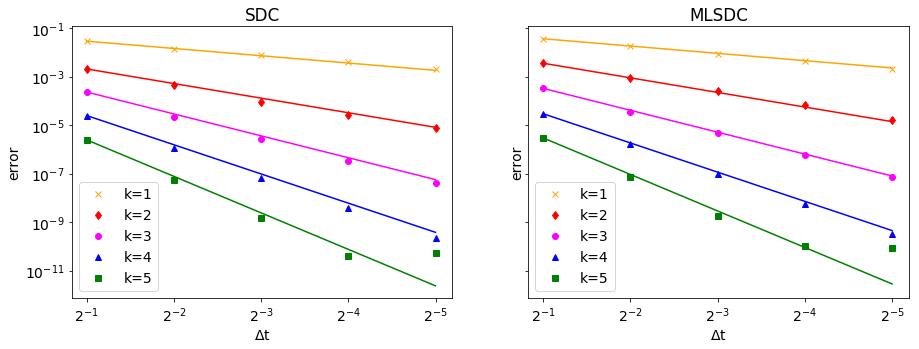
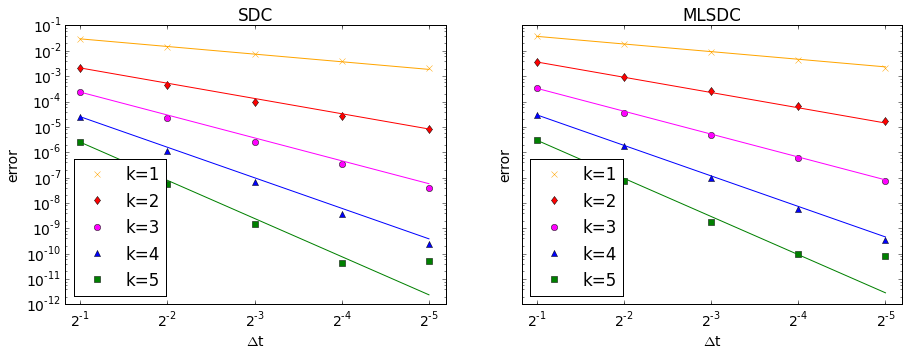
added flag to save error at uend

diff --git a/pySDC/projects/mlsdc_convergence/solve_heat1d.py b/pySDC/projects/mlsdc_convergence/solve_heat1d.py
@@ -11,7 +11,7 @@ from math import log
 import numpy as np
 from plot_errors import plot_errors
 
-def solve_heat1d(m, n, iorder, nu, freq, random_init, niter_arr, nsteps_arr, fname_errors):
+def solve_heat1d(m, n, iorder, nu, freq, random_init, niter_arr, nsteps_arr, only_uend, fname_errors):
     """
     Run SDC and MLSDC for 1D heat equation with given parameters
     and compare errors for different numbers of iterations and time steps
@@ -82,6 +82,8 @@ def solve_heat1d(m, n, iorder, nu, freq, random_init, niter_arr, nsteps_arr, fna
     error_coll_mlsdc = {'type' : 'MLSDC', 'niter_arr' : niter_arr, 'nsteps_arr' : nsteps_arr}
     error_uend_mlsdc = {'type' : 'MLSDC', 'niter_arr' : niter_arr, 'nsteps_arr' : nsteps_arr}
     
+    u_coll = {}    
+    
     # vary number of iterations
     for niter in niter_arr:
         # set number of iterations
@@ -139,17 +141,18 @@ def solve_heat1d(m, n, iorder, nu, freq, random_init, niter_arr, nsteps_arr, fna
             print('MLSDC:\tu_ode:\terror: %8.6e\torder:%4.2f' % (err_ode_mlsdc, order_ode_mlsdc))
         
             # compute solution of the collocation problem
-            I_dtQxA = np.eye((m[0]+1)*n[0]) - L_sdc.dt*np.kron(L_sdc.sweep.coll.Qmat, P.A.toarray())
-            u0 = np.kron(np.ones(m[0]+1), uinit.values)
-            u_coll = np.linalg.solve(I_dtQxA, u0)
+            if not nsteps in u_coll:
+                I_dtQxA = np.eye((m[0]+1)*n[0]) - L_sdc.dt*np.kron(L_sdc.sweep.coll.Qmat, P.A.toarray())
+                u0 = np.kron(np.ones(m[0]+1), uinit.values)
+                u_coll[nsteps] = np.linalg.solve(I_dtQxA, u0)
             
             # compute, save and print collocation error and resulting order in dt
-            err_coll_sdc = np.linalg.norm(u_coll - u_num_sdc.flatten(), ord=np.inf)
+            err_coll_sdc = np.linalg.norm(u_coll[nsteps] - u_num_sdc.flatten(), ord=np.inf)
             error_coll_sdc[(niter, nsteps)] = err_coll_sdc
             order_coll_sdc = log(error_coll_sdc[(niter, nsteps_arr[i-1])]/err_coll_sdc)/log(nsteps/nsteps_arr[i-1]) if i > 0 else 0
             print('SDC:\tu_coll:\terror: %8.6e\torder:%4.2f' % (err_coll_sdc, order_coll_sdc))
             
-            err_coll_mlsdc = np.linalg.norm(u_coll - u_num_mlsdc.flatten(), ord=np.inf)
+            err_coll_mlsdc = np.linalg.norm(u_coll[nsteps] - u_num_mlsdc.flatten(), ord=np.inf)
             error_coll_mlsdc[(niter, nsteps)] = err_coll_mlsdc
             order_coll_mlsdc = log(error_coll_mlsdc[(niter, nsteps_arr[i-1])]/err_coll_mlsdc)/log(nsteps/nsteps_arr[i-1]) if i > 0 else 0
             print('MLSDC:\tu_coll:\terror: %8.6e\torder:%4.2f' % (err_coll_mlsdc, order_coll_mlsdc))
@@ -183,7 +186,10 @@ def solve_heat1d(m, n, iorder, nu, freq, random_init, niter_arr, nsteps_arr, fna
     
     # save results in pickle files (needed to plot results)
     fout = open(fname_errors, "wb")
-    pickle.dump([error_coll_sdc, error_coll_mlsdc], fout)
+    if only_uend:
+        pickle.dump([error_uend_sdc, error_uend_mlsdc], fout)
+    else:
+        pickle.dump([error_ode_sdc, error_ode_mlsdc], fout)
     fout.close()
     
     print("results saved in: {}".format(fname_errors))
@@ -196,17 +202,23 @@ if __name__ == "__main__":
     n = [255, 127]
     
     # set method params
-    m = [5, 5]
+    m = [7, 7]
     random_init = True
     iorder = 10
     # set number of iterations and time steps which shall be analysed
     niter_arr = range(1,6)
-    nsteps_arr = [2**i for i in range(14,18)]
+    nsteps_arr = [2**i for i in range(15,19)]
     
-    fname_errors = "data/errors_heat1d.pickle"
-    figname = "figures/errors_heat1d.png"
+    only_uend = False
     
-    solve_heat1d(m, n, iorder, nu, freq, random_init, niter_arr, nsteps_arr, fname_errors)
+    if only_uend:
+        fname_errors = "data/errors_heat1d_uend.pickle"
+        figname = "figures/errors_heat1d_uend.png"
+    else:
+        fname_errors = "data/errors_heat1d.pickle"
+        figname = "figures/errors_heat1d.png"
+    
+    solve_heat1d(m, n, iorder, nu, freq, random_init, niter_arr, nsteps_arr, only_uend, fname_errors)
     if random_init:
         plot_errors(fname_errors, figname, order_sdc=lambda n: n, order_mlsdc=lambda n: n)
     else:

diff --git a/pySDC/projects/mlsdc_convergence/solve_vanderpol.py b/pySDC/projects/mlsdc_convergence/solve_vanderpol.py
@@ -11,7 +11,7 @@ from math import log
 import numpy as np
 from plot_errors import plot_errors
 
-def solve_vanderpol(m, random_init, niter_arr, nsteps_arr, fname_errors):
+def solve_vanderpol(m, random_init, niter_arr, nsteps_arr, only_uend, fname_errors):
     """
     Run SDC and MLSDC for Van der Pol ODE with given parameters
     and compare errors for different numbers of iterations and time steps
@@ -159,7 +159,10 @@ def solve_vanderpol(m, random_init, niter_arr, nsteps_arr, fname_errors):
     
     # save results in pickle files (needed to plot results)
     fout = open(fname_errors, "wb")
-    pickle.dump([error_sdc, error_mlsdc], fout)
+    if only_uend:
+        pickle.dump([error_uend_sdc, error_uend_mlsdc], fout)
+    else:
+        pickle.dump([error_sdc, error_mlsdc], fout)
     fout.close()
     
     print("results saved in: {}".format(fname_errors))
@@ -173,10 +176,16 @@ if __name__ == "__main__":
     niter_arr = range(1,6)
     nsteps_arr = [2**i for i in range(4,8)]
     
-    fname_errors = "data/errors_vanderpol.pickle"
-    figname = "figures/errors_vanderpol.png"
+    only_uend = True
     
-    solve_vanderpol(m, random_init, niter_arr, nsteps_arr, fname_errors)
+    if only_uend:
+        fname_errors = "data/errors_vanderpol_uend.pickle"
+        figname = "figures/errors_vanderpol_uend.png"
+    else:
+        fname_errors = "data/errors_vanderpol.pickle"
+        figname = "figures/errors_vanderpol.png"
+    
+    solve_vanderpol(m, random_init, niter_arr, nsteps_arr, only_uend, fname_errors)
     if random_init:
         plot_errors(fname_errors, figname, order_sdc=lambda n: n, order_mlsdc=lambda n: n)
     else:

diff --git a/pySDC/projects/mlsdc_convergence/solve_auzinger.py b/pySDC/projects/mlsdc_convergence/solve_auzinger.py
@@ -11,7 +11,7 @@ from math import log
 import numpy as np
 from plot_errors import plot_errors
 
-def solve_auzinger(m, random_init, niter_arr, nsteps_arr, fname_errors):
+def solve_auzinger(m, random_init, niter_arr, nsteps_arr, only_uend, fname_errors):
     """
     Run SDC and MLSDC for auzinger ODE with given parameters
     and compare errors for different numbers of iterations and time steps
@@ -162,7 +162,10 @@ def solve_auzinger(m, random_init, niter_arr, nsteps_arr, fname_errors):
     
     # save results in pickle files (needed to plot results)
     fout = open(fname_errors, "wb")
-    pickle.dump([error_sdc, error_mlsdc], fout)
+    if only_uend:
+        pickle.dump([error_uend_sdc, error_uend_mlsdc], fout)
+    else:
+        pickle.dump([error_sdc, error_mlsdc], fout)
     fout.close()
     
     print("results saved in: {}".format(fname_errors))
@@ -176,10 +179,16 @@ if __name__ == "__main__":
     niter_arr = range(1,6)
     nsteps_arr = [2**i for i in range(1,6)]
     
-    fname_errors = "data/errors_auzinger.pickle"
-    figname = "figures/errors_auzinger.png"
+    only_uend = False
     
-    solve_auzinger(m, random_init, niter_arr, nsteps_arr, fname_errors)
+    if only_uend:
+        fname_errors = "data/errors_auzinger_uend.pickle"
+        figname = "figures/errors_auzinger_uend.png"
+    else:
+        fname_errors = "data/errors_auzinger.pickle"
+        figname = "figures/errors_auzinger.png"
+    
+    solve_auzinger(m, random_init, niter_arr, nsteps_arr, only_uend, fname_errors)
     if random_init:
         plot_errors(fname_errors, figname, order_sdc=lambda n: n, order_mlsdc=lambda n: n)
     else:

diff --git a/pySDC/projects/mlsdc_convergence/plot_errors.py b/pySDC/projects/mlsdc_convergence/plot_errors.py
@@ -58,7 +58,7 @@ def plot_errors(fname_errors=["errors.pickle"], figname=None, order_sdc=lambda n
 #        if err['type'] == 'MLSDC':
 #            plt.legend(title='lines = k')
 #        else:
-        axes[i].legend()
+        axes[i].legend(numpoints=1, loc="lower left")
     
     plt.show()  
     
@@ -68,4 +68,4 @@ def plot_errors(fname_errors=["errors.pickle"], figname=None, order_sdc=lambda n
         print('figure saved in: {}'.format(figname)) 
     
 if __name__ == "__main__":
-    plot_errors(order_sdc=lambda n: n, oder_mlsdc=lambda n: 2*n)
+    plot_errors(fname_errors="data/errors_heat1d.pickle", figname="figures/errors_heat1d.png", order_sdc=lambda n: n, order_mlsdc=lambda n: n)
